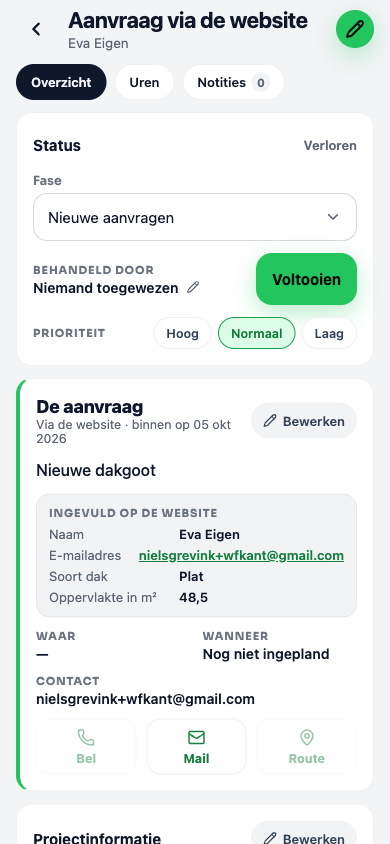
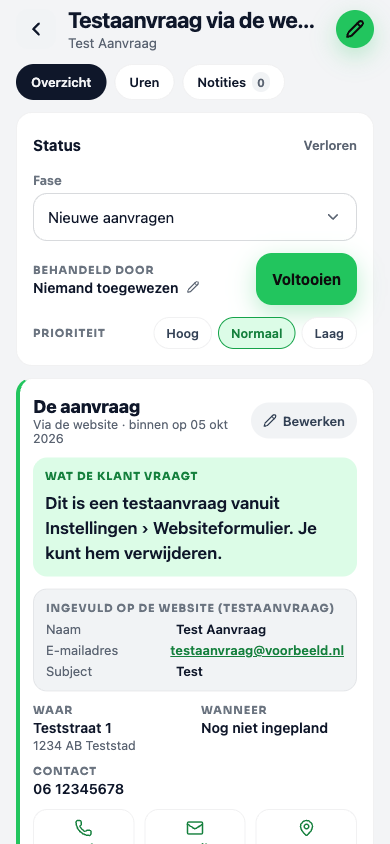
Projectkaart: aanvraagtekst in een eigen groen vak (feedback)

diff --git a/src/components/project/ProjectDetailScherm.tsx b/src/components/project/ProjectDetailScherm.tsx
@@ -606,9 +606,12 @@ export function ProjectDetailScherm({ projectId, dealId }: { projectId?: string;
           {aanvraagBewerken ? <KleineKnop label="Bewerken" onPress={aanvraagBewerken} /> : null}
         </View>
 
-        <Text style={[styles.aanvraagTekst, !aanvraagTekst && { color: t.muted, fontWeight: '400' }]}>
-          {aanvraagTekst || 'Nog niets opgeschreven over deze aanvraag.'}
-        </Text>
+        <View style={styles.aanvraagVak}>
+          <Text style={[styles.veldLabel, { color: t.green700 }]}>Wat de klant vraagt</Text>
+          <Text style={[styles.aanvraagTekst, !aanvraagTekst && { color: t.muted, fontWeight: '400', fontSize: 15 }]}>
+            {aanvraagTekst || 'Nog niets opgeschreven over deze aanvraag.'}
+          </Text>
+        </View>
 
         {websiteVelden.length || data.bron?.fotos ? (
           <View style={styles.websiteVak}>
@@ -1387,7 +1390,8 @@ const makeStyles = (t: ThemeColors) =>
     // Groene rand links; de opvulling ernaast 4 minder, zodat de tekst gelijk loopt met de andere kaarten.
     aanvraagBlok: { borderLeftWidth: 4, borderLeftColor: t.green, paddingLeft: spacing.lg - 4 + StyleSheet.hairlineWidth },
     aanvraagEyebrow: { fontSize: 18, fontWeight: '800', color: t.ink, letterSpacing: -0.2 },
-    aanvraagTekst: { fontSize: 16, lineHeight: 24, fontWeight: '500', color: t.ink },
+    aanvraagVak: { gap: 6, padding: spacing.md, borderRadius: radius.md, backgroundColor: t.green50 },
+    aanvraagTekst: { fontSize: 17, lineHeight: 25, fontWeight: '600', color: t.ink },
     websiteVak: {
       gap: 6,
       padding: spacing.md,

diff --git a/docs/app-verbeteren.md b/docs/app-verbeteren.md
@@ -50,8 +50,8 @@ iPad staand en liggend. Screenshots in `docs/screenshots/`.
 - [ ] Rest van de werkbon gecontroleerd
 
 ### 9. Pipeline en projectkaart
-- [ ] Aanvraag prominent
-- [ ] Redesign eerste blok (fase, toegewezen aan, …) — **eerst laten zien**
+- [x] Aanvraag prominent: eigen kaart met groene rand, tekst in een groen vak "Wat de klant vraagt" (na feedback 15-10), websitevelden zoals het dashboard, Bel/Mail/Route
+- [x] Redesign eerste blok (fase, toegewezen aan, …) — getoond en akkoord 15-10 (`docs/screenshots/projectkaart-voorstel/`). Oorzaak leeg vlak: `flexBasis: 140` van een veld in een kolom
 - [ ] Alle functies van de projectkaart in het dashboard
 
 ### 10. Projecten
